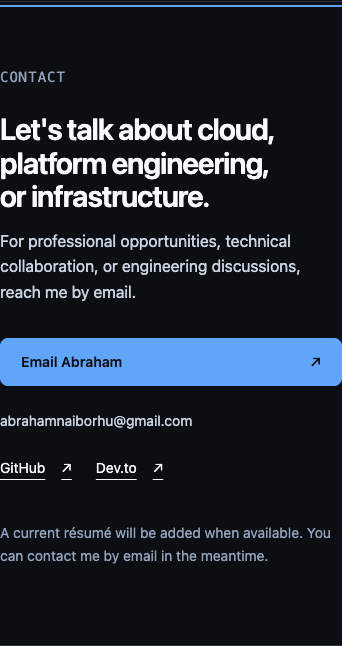
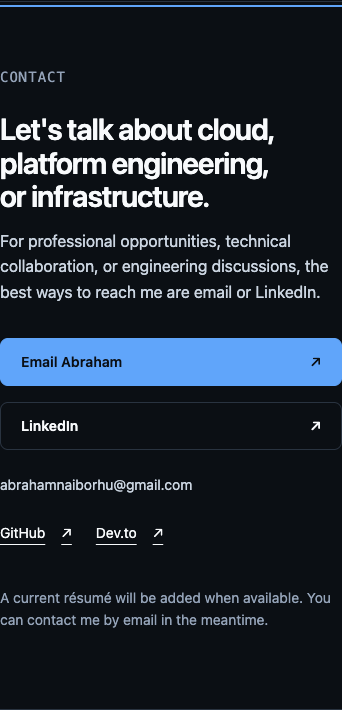
feat: add confirmed LinkedIn contact links

diff --git a/src/rebrand/Contact.tsx b/src/rebrand/Contact.tsx
@@ -6,8 +6,8 @@ export function Contact() {
     <section id="contact" className="section wrap contact" aria-labelledby="contact-title">
       <p className="eyebrow">Contact</p>
       <h2 id="contact-title">Let&apos;s talk about cloud, platform engineering, or infrastructure.</h2>
-      <p>For professional opportunities, technical collaboration, or engineering discussions, reach me by email.</p>
-      <div className="actions"><a className="button primary" href={`mailto:${profile.email}`}>Email Abraham <span aria-hidden="true">↗</span></a></div>
+      <p>For professional opportunities, technical collaboration, or engineering discussions, the best ways to reach me are email or LinkedIn.</p>
+      <div className="actions"><a className="button primary" href={`mailto:${profile.email}`}>Email Abraham <span aria-hidden="true">↗</span></a><a className="button secondary" href={profile.linkedin}>LinkedIn <span aria-hidden="true">↗</span></a></div>
       <p className="contact-address">{profile.email}</p>
       <div className="contact-links"><a className="text-link" href={profile.github}>GitHub <span aria-hidden="true">↗</span></a><a className="text-link" href={profile.writing}>Dev.to <span aria-hidden="true">↗</span></a></div>
       <p id="resume-note" tabIndex={-1} className="metadata">A current résumé will be added when available. You can contact me by email in the meantime.</p>
@@ -18,6 +18,6 @@ export function Contact() {
 export function Footer() {
   return <footer className="site-footer wrap">
     <div><p>© 2026 {profile.shortName}</p><p className="metadata">{profile.name} · {profile.location}</p></div>
-    <nav aria-label="Footer"><a href={profile.github}>GitHub</a><a href={profile.writing}>Dev.to</a><a href="#home">Back to top ↑</a></nav>
+    <nav aria-label="Footer"><a href={profile.github}>GitHub</a><a href={profile.linkedin}>LinkedIn</a><a href={profile.writing}>Dev.to</a><a href="#home">Back to top ↑</a></nav>
   </footer>;
 }

diff --git a/tests/browser/contact.spec.ts b/tests/browser/contact.spec.ts
@@ -17,6 +17,9 @@ test('visitor can navigate from Work to résumé fallback, email, and back to to
   await expect(email).toHaveCSS('outline-style', 'solid');
   await expect(email).toHaveAttribute('href', 'mailto:abrahamnaiborhu@gmail.com');
   await page.keyboard.press('Tab');
+  await expect(page.locator('#contact').getByRole('link', { name: 'LinkedIn' })).toBeFocused();
+  await expect(page.locator('#contact').getByRole('link', { name: 'LinkedIn' })).toHaveAttribute('href', 'https://www.linkedin.com/in/abrahamnaiborhu');
+  await page.keyboard.press('Tab');
   await expect(page.locator('#contact').getByRole('link', { name: 'GitHub' })).toBeFocused();
   await page.getByRole('contentinfo').getByRole('link', { name: 'Back to top' }).click();
   await expect(page).toHaveURL(/#home$/);

diff --git a/tests/static.test.tsx b/tests/static.test.tsx
@@ -83,6 +83,11 @@ test('about and contact show supplied education, languages, identity, and safe c
   assert.ok(html.includes('id="resume-note"'));
 });
 
+test('confirmed LinkedIn appears in Contact and Footer', () => {
+  const html = renderPage();
+  assert.equal((html.match(/href="https:\/\/www.linkedin.com\/in\/abrahamnaiborhu"/g) ?? []).length, 2);
+});
+
 test('HTML injection fails loudly when its single template marker is missing or duplicated', () => {
   assert.throws(() => injectPage('<div></div>'), /marker/i);
   assert.throws(() => injectPage('<!--app-html--><!--app-html-->'), /marker/i);

diff --git a/src/rebrand/profile.ts b/src/rebrand/profile.ts
@@ -10,4 +10,5 @@ export const profile = {
   email: 'abrahamnaiborhu@gmail.com',
   github: 'https://github.com/abrahamnaiborhu',
   writing: 'https://dev.to/abrahamnaiborhu',
+  linkedin: 'https://www.linkedin.com/in/abrahamnaiborhu',
 } as const;

diff --git a/docs/rebuild/sprint4.md b/docs/rebuild/sprint4.md
@@ -119,3 +119,11 @@ Latest synthetic 4× CPU load trace: max layout 131.627ms, paint 8.215ms, functi
 S4.3 and C4 are deliberately not marked complete: current résumé integration and a
 confirmed LinkedIn destination remain required by their acceptance criteria. Page
 structure is implemented and reviewable. No deployment, push, or domain changes.
+
+### LinkedIn confirmation
+
+The user confirmed `https://www.linkedin.com/in/abrahamnaiborhu`. Added it to the
+shared profile, Contact secondary action, and Footer. Contact copy now mentions both
+email and LinkedIn. Confirmation is user-supplied, not a claim that LinkedIn's automated
+access restriction was bypassed. Updated the keyboard-order regression for the new link.
+The résumé file is still missing; S4.3/C4 remain open only for that required integration.

diff --git a/README.md b/README.md
@@ -4,7 +4,7 @@ Direction A: a calm, typography-led cloud/platform engineering portfolio. Sprint
 deliver the static-readable React/TypeScript foundation, responsive navigation, finite hero
 animation, credentials, capability inventory, and three evidence-led engineering case studies.
 Sprint 4 adds career, credentials, writing, About, and email-first contact. A current
-résumé and confirmed LinkedIn destination are still needed; this is not a production release.
+résumé is still needed; LinkedIn is user-confirmed. This is not a production release.
 
 ## Development
 
